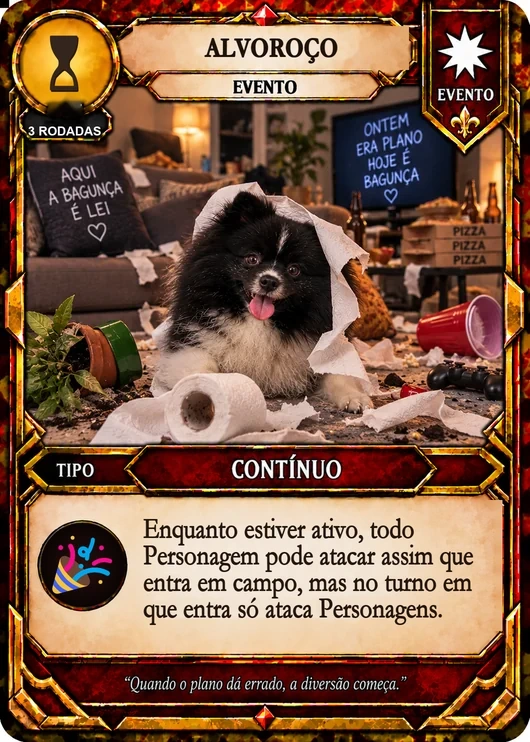
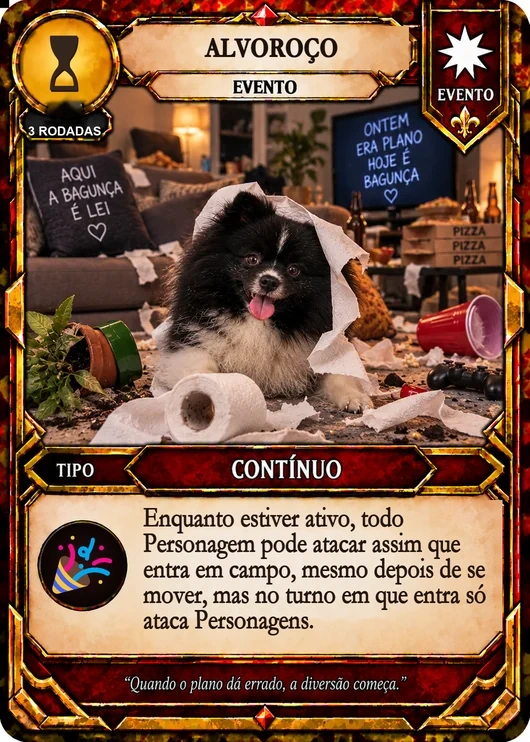
v97: Ligeiro move e ataca no mesmo turno, energia por efeito no 1o turno do 2o jogador

Changed region(s): [[0.2717, 0.6819, 0.9358, 0.8679]]

diff --git a/js/ui.js b/js/ui.js
@@ -1203,7 +1203,7 @@
   UI.rules = function () {
     const m = UI.modal(`<h3>Regras rápidas</h3><div class="rules-doc">
       <h4>Objetivo</h4><p>Reduza a vida do adversário de <b>25 para 0</b>. (Nas cartas, 1 ❤ = 5 pontos de vida: "recupere ❤1" cura 5.)</p>
-      <h4>Início</h4><p>Cada jogador começa com 25 de vida, 4 Personagens e 2 Suportes na mão (ninguém escolhe nem devolve cartas), todos baratos: custo até ⚡3. A partida começa sem Evento. Quem começa não compra no primeiro turno. No <b>primeiro turno de cada jogador só existe ⚡1</b> e nenhum efeito dá energia extra. Todo mundo começa com <b>pelo menos 2 Personagens de custo ⚡1</b> para jogar no primeiro turno. <b>As cartas vêm embaralhadas, mas só chegam cartas de até ⚡2 acima da sua energia:</b> cada carta comprada é a primeira do baralho cujo custo é no máximo a sua energia do turno + 2 (na mão inicial: até ⚡3). As caras só chegam quando você já está perto de poder jogá-las.</p>
+      <h4>Início</h4><p>Cada jogador começa com 25 de vida, 4 Personagens e 2 Suportes na mão (ninguém escolhe nem devolve cartas), todos baratos: custo até ⚡3. A partida começa sem Evento. Quem começa não compra no primeiro turno. No <b>primeiro turno de quem começa só existe ⚡1</b> e nenhum efeito dá energia extra (quem joga em 2º tem ⚡2 e pode ganhar energia por efeitos). Todo mundo começa com <b>pelo menos 2 Personagens de custo ⚡1</b> para jogar no primeiro turno. <b>As cartas vêm embaralhadas, mas só chegam cartas de até ⚡2 acima da sua energia:</b> cada carta comprada é a primeira do baralho cujo custo é no máximo a sua energia do turno + 2 (na mão inicial: até ⚡3). As caras só chegam quando você já está perto de poder jogá-las.</p>
       <h4>Energia ⚡</h4><p>No 1º turno você tem <b>⚡1</b>, no 2º <b>⚡2</b>, e assim por diante até <b>⚡10</b>. A energia <b>enche de novo todo turno</b>; o que sobrar se perde. Gastando energia você joga <b>quantas cartas quiser</b>. Energia extra de efeitos vale só no turno e nunca passa de 10. <b>Quem joga em 2º tem ⚡+1 nos 5 primeiros turnos</b> dele (⚡2, ⚡3, ⚡4, ⚡5 e ⚡6), para compensar a vantagem de começar.</p>
       <h4>Campo</h4><table><tr><th>Zona</th><th>Limite</th><th>Função</th></tr>
       <tr><td>⚔ Ataque</td><td>3</td><td>Podem atacar (a partir do turno seguinte ao que entraram, exceto Ligeiros).</td></tr>
@@ -1212,11 +1212,11 @@
       <tr><td>🛠 Suportes</td><td>2</td><td>Suportes Permanentes ficam aqui.</td></tr></table>
       <h4>Posição: espaços fixos</h4><p>Cada zona tem espaços fixos (esquerda, meio e direita). Ao jogar um Personagem, toque no <b>espaço</b> onde ele vai ficar; ele não muda de lugar sozinho. Vários efeitos usam a posição: o <b>vizinho</b> (espaço ao lado, na mesma zona) e a <b>frente</b> (um Defensor está "atrás" do atacante do mesmo espaço). <b>Mover</b> (⚡1) leva um Personagem a outro espaço livre, e <b>Trocar de lugar</b> (⚡2, uma vez por turno) troca dois Personagens seus de lugar. Quem foi movido ou trocado não ataca naquele turno.</p>
       <h4>Turno</h4><p><b>COMPRE</b> 1 Personagem (se tiver menos de 7 cartas) → faça o que quiser com sua energia, em qualquer ordem: <b>jogar Personagens e Suportes</b>, <b>comprar 1 Suporte</b> (⚡1, uma vez por turno), <b>mover</b> um Personagem (⚡1, uma vez por Personagem), usar <b>habilidades Ativáveis</b> (uma vez por turno cada), e <b>atacar</b> com cada Personagem pronto → <b>ENCERRE</b> o turno. A cada 2 turnos seus você também compra 1 Suporte automaticamente.</p>
-      <h4>Combate</h4><p>O atacante causa o próprio ⚔ de dano. Um Personagem atacado <b>contra-ataca</b> com o ⚔ dele, ao mesmo tempo. O dano <b>fica na carta para sempre</b> até que um efeito de <b>cura</b> o remova, e a carta cai quando o dano chega à sua 🛡. Cartas <b>Ligeiro</b> (a partir de ⚡2) podem atacar assim que entram, mas no turno em que entram só atacam Personagens (nos turnos seguintes atacam o herói normalmente). <b>Resistente N</b>: sofre N de dano a menos em cada ataque (mínimo 1). <b>Executor</b>: +2 de ataque contra Personagens que já têm dano. Alguns efeitos Ao Entrar causam dano direto a Personagens inimigos. Dá para combinar vários ataques para derrubar um alvo.</p>
+      <h4>Combate</h4><p>O atacante causa o próprio ⚔ de dano. Um Personagem atacado <b>contra-ataca</b> com o ⚔ dele, ao mesmo tempo. O dano <b>fica na carta para sempre</b> até que um efeito de <b>cura</b> o remova, e a carta cai quando o dano chega à sua 🛡. Cartas <b>Ligeiro</b> (a partir de ⚡2) podem atacar assim que entram e <b>podem se mover e atacar no mesmo turno</b> (cada Personagem só se move 1 vez por turno). No turno em que entram só atacam Personagens; nos turnos seguintes atacam o herói normalmente. <b>Resistente N</b>: sofre N de dano a menos em cada ataque (mínimo 1). <b>Executor</b>: +2 de ataque contra Personagens que já têm dano. Alguns efeitos Ao Entrar causam dano direto a Personagens inimigos. Dá para combinar vários ataques para derrubar um alvo.</p>
       <p>Contra um herói com Defensores, ataque os Defensores. <b>Desafio</b>: atacar um Personagem do Ataque inimigo. Sem Defensores, <b>todos os seus atacantes podem atacar o herói</b> (cada um tirando vida igual ao seu ⚔, sem contra-ataque) <b>ou os Personagens em 🤝 Apoio</b>.</p>
       <h4>Descartar e comprar</h4><p>Uma vez por turno, pague <b>⚡1</b> para descartar 1 carta da mão e comprar 1 do mesmo tipo (Personagem por Personagem, Suporte por Suporte). Serve para trocar uma carta que não dá para jogar.</p>
       <h4>Perks (Suportes Permanentes)</h4><p>Perks ocupam uma das 2 vagas 🛠, têm efeito passivo e <b>duram 3 turnos seus</b> (o ⏳ na carta mostra quantos faltam): <b>Torcida Organizada</b> (+1 de dano em todos os ataques), <b>Boleto Vencido</b> (+2 de dano no herói), <b>Fofoca do Churrasco</b> (compra 1 quando um Personagem seu cai), <b>Fiscal da Cerveja</b> (adversário perde ❤1 quando seu Personagem derrota outro), <b>Soneca Estratégica</b> (recupera ❤2 se ninguém atacou), <b>Bill</b> (compra extra), <b>Sofá</b> (Defensores sofrem 2 de dano a menos), <b>Cristal</b> (cada Personagem seu cura 2 de dano no início do seu turno) e <b>Jardim</b> (Personagens em Apoio ou Defesa curam 3 de dano no fim do seu turno).</p>
-      <h4>Dicas de energia e custo</h4><p>As cartas custam de <b>⚡1 a ⚡10</b> (o número no selo dourado). Jogar cartas baratas cedo e guardar as fortes para depois é normal. Mover custa ⚡1, só vale uma vez por Personagem por turno, e <b>quem se moveu não ataca</b> naquele turno. Personagem recém-jogado também só ataca no turno seguinte. O dano que uma carta sofreu aparece em vermelho na defesa dela.</p>
+      <h4>Dicas de energia e custo</h4><p>As cartas custam de <b>⚡1 a ⚡10</b> (o número no selo dourado). Jogar cartas baratas cedo e guardar as fortes para depois é normal. Mover custa ⚡1, só vale uma vez por Personagem por turno, e <b>quem se moveu não ataca</b> naquele turno (exceto Ligeiro). Personagem recém-jogado também só ataca no turno seguinte. O dano que uma carta sofreu aparece em vermelho na defesa dela.</p>
       <h4>Atordoado</h4><p>Eventos (como o Sono Depois do Almoço) podem Atordoar: não ataca, não usa Ativável, não se move. Continua defendendo. Recupera no fim do próximo turno do dono.</p>
       <h4>Limites</h4><p>Mão: 7 cartas · Energia: ⚡10 · Vida: 25 · Custo mínimo: ⚡1 · Descontos não se acumulam.</p>
       <h4>Eventos</h4><p>No máximo 1 Evento fica ativo e ele <b>troca sozinho a cada 3 rodadas</b> (o primeiro entra no fim da 3ª). Ninguém compra nem troca Eventos.</p>

diff --git a/js/cards.js b/js/cards.js
@@ -6,7 +6,7 @@
   // raridade: b = Base, e = Especial, m = Mágica, l = Lendária
   const P = [
     [1, 'Kevin', 'o Engenheiro Mecânico', 2, 4, 4, 'b', 'healBoard', 'Ao Entrar: cure todo o dano dos seus Personagens.'],
-    [2, 'Kevin', 'Craque da Bola', 3, 6, 3, 'e', 'ligeiro', 'Ligeiro: pode atacar assim que entra em campo, mas no turno em que entra só ataca Personagens.', 0, true],
+    [2, 'Kevin', 'Craque da Bola', 3, 6, 3, 'e', 'ligeiro', 'Ligeiro: pode atacar assim que entra, mesmo depois de se mover (1 movimento por turno). No turno em que entra só ataca Personagens.', 0, true],
     [3, 'Kevin', 'Mestre da Engenharia Mística', 5, 5, 7, 'm', 'kevinMestre', '🤝 Uma vez por seu turno, quando jogar um Suporte, compre 1 Personagem, respeitando o limite da mão.'],
     [4, 'Kevin', 'Galã Montador de Dragões', 8, 8, 6, 'l', 'ping3', 'Ao Entrar: cause 3 de dano a 1 Personagem inimigo.'],
     [5, 'Evilyn', 'a Impaciente', 1, 4, 2, 'b', 'auraRightAtk', 'O Personagem à sua direita, em ⚔, tem +1 de ataque.'],
@@ -14,7 +14,7 @@
     [7, 'Evilyn', 'Fada Antipet', 5, 7, 5, 'm', 'executor', 'Executor: +2 de ataque contra Personagens que já têm dano.'],
     [8, 'Evilyn', 'Rainha dos Baixinhos', 9, 7, 8, 'l', 'cureIfBehind', 'Ao Entrar: se tiver menos ❤ que o adversário, cure todo o dano dos seus Personagens.'],
     [9, 'Rogerinho', 'o Empresário', 2, 5, 4, 'b', 'zeroEnergy', 'Ao jogar Rogerinho, se ficar com ⚡0, ganhe ⚡1.'],
-    [10, 'Rogerinho', 'Taxista das Madrugadas', 4, 6, 4, 'e', 'ligeiro', 'Ligeiro: pode atacar assim que entra em campo, mas no turno em que entra só ataca Personagens.'],
+    [10, 'Rogerinho', 'Taxista das Madrugadas', 4, 6, 4, 'e', 'ligeiro', 'Ligeiro: pode atacar assim que entra, mesmo depois de se mover (1 movimento por turno). No turno em que entra só ataca Personagens.'],
     [11, 'Rogerinho', 'o Vereador', 5, 5, 6, 'm', 'apoioDefResist', '🤝 Apoio: seus Defensores têm Resistente 1 (sofrem 1 de dano a menos em cada ataque).'],
     [12, 'Rogerinho', 'Rei dos Galos', 7, 9, 5, 'l', 'cure5Each', 'Ao Entrar: cada Personagem seu cura 5 de dano.'],
     [13, 'Claudineia', 'a Mãe', 2, 3, 6, 'b', 'heal1', 'Ao Entrar: recupere ❤1.'],
@@ -34,7 +34,7 @@
     [27, 'Bruno', 'o Sofredor Vascaíno', 4, 4, 8, 'm', 'vanilla', 'Sem efeito especial.'],
     [28, 'Brunor', 'Mago da Série B', 9, 7, 7, 'l', 'pingAtk2', 'Ao Entrar: cause 2 de dano a cada Personagem inimigo em ⚔.'],
     [29, 'Helso', 'o Tranquilo', 1, 3, 4, 'b', 'helsoTranquilo', 'Ao Entrar em 🛡: se for seu único Defensor, ganhe ⚡1.'],
-    [30, 'Helso', 'Pé Descalibrado', 2, 6, 2, 'e', 'ligeiro', 'Ligeiro: pode atacar assim que entra em campo, mas no turno em que entra só ataca Personagens.'],
+    [30, 'Helso', 'Pé Descalibrado', 2, 6, 2, 'e', 'ligeiro', 'Ligeiro: pode atacar assim que entra, mesmo depois de se mover (1 movimento por turno). No turno em que entra só ataca Personagens.'],
     [31, 'Helso', 'Lançador Oficial da NASA', 6, 8, 4, 'm', 'executor', 'Executor: +2 de ataque contra Personagens que já têm dano.'],
     [32, 'Helso', 'Mestre do Coco', 9, 7, 8, 'l', 'helsoCoco', 'Ao Entrar: recupere ❤1 e cure todo o dano dos seus Personagens.'],
     [33, 'Jones', 'o Galanteador', 2, 5, 4, 'b', 'nextSupRed', 'Ao Entrar: o próximo Suporte que você jogar neste turno custa ⚡1 a menos.'],
@@ -128,7 +128,7 @@
     [13, 'Fila do Churrasco', 'imm', 'filaChurrasco', 'Ao revelar: o jogador com menos Personagens em campo compra 1 Personagem, respeitando o limite da mão. Em caso de empate, ninguém compra.'],
     [14, 'Discussão Generalizada', 'cont', 'discussao', 'Enquanto estiver ativo, nenhum jogador pode recuperar ❤.'],
     [15, 'Noite Tranquila', 'cont', 'noite', 'No início do turno de cada jogador, cada Personagem dele cura 2 de dano.'],
-    [16, 'Alvoroço', 'cont', 'alvoroco', 'Enquanto estiver ativo, todo Personagem pode atacar assim que entra em campo, mas no turno em que entra só ataca Personagens.'],
+    [16, 'Alvoroço', 'cont', 'alvoroco', 'Enquanto estiver ativo, todo Personagem pode atacar assim que entra em campo, mesmo depois de se mover, mas no turno em que entra só ataca Personagens.'],
     [17, 'Vô Deu Bronca!', 'cont', 'bronca', 'Ao revelar: cada jogador escolhe 1 Personagem adversário em ⚔ e move-o para 🛡, se houver espaço.'],
   ];
 
@@ -143,7 +143,7 @@
   P.forEach(([n, name, title, cost, atk, def, rar, fx, text, ecost, fla]) => {
     CARDS['p' + pad(n)] = {
       id: 'p' + pad(n), type: 'char', name, title, cost, atk, def, rarity: rar, rarityName: RAR[rar],
-      fx, text, ecost: ecost || 0, flamengo: !!fla, updated: UPD.has(n), img: abs('assets/cards/personagens/' + pad(n) + '.webp?v=95'),
+      fx, text, ecost: ecost || 0, flamengo: !!fla, updated: UPD.has(n), img: abs('assets/cards/personagens/' + pad(n) + '.webp?v=97'),
       activatable: /^act/.test(fx),
     };
   });
@@ -153,13 +153,13 @@
     CARDS['s' + pad(n)] = {
       dur: DUR[fx] || 0,
       id: 's' + pad(n), type: 'sup', name, title: kind === 'imm' ? 'Imediato' : kind === 'perm' ? (DUR[fx] ? 'Perk' : 'Permanente') : 'Permanente - uso único',
-      cost, kind, fx, text, img: abs('assets/cards/suportes/' + pad(n) + '.webp?v=95'),
+      cost, kind, fx, text, img: abs('assets/cards/suportes/' + pad(n) + '.webp?v=97'),
     };
   });
   E.forEach(([n, name, kind, fx, text]) => {
     CARDS['e' + pad(n)] = {
       id: 'e' + pad(n), type: 'ev', name, title: kind === 'imm' ? 'Evento Imediato' : 'Evento Contínuo',
-      kind, fx, text, img: abs('assets/cards/eventos/' + pad(n) + '.webp?v=95'),
+      kind, fx, text, img: abs('assets/cards/eventos/' + pad(n) + '.webp?v=97'),
     };
   });
 

diff --git a/js/tutorial.js b/js/tutorial.js
@@ -31,7 +31,7 @@
     },
     {
       t: 'Preparação',
-      body: `<ul><li>Cada jogador começa com <b>25 de vida</b> (1 ❤ nas cartas = 5 pontos). No <b>primeiro turno de cada um só existe ⚡1</b> e nenhum efeito dá energia extra.</li>
+      body: `<ul><li>Cada jogador começa com <b>25 de vida</b> (1 ❤ nas cartas = 5 pontos). No <b>primeiro turno de quem começa só existe ⚡1</b> e nenhum efeito dá energia extra (quem joga em 2º tem ⚡2).</li>
         <li>Compre <b>4 Personagens</b> e <b>2 Suportes</b> — sem escolher nem devolver, todos <b>baratos (até ⚡3)</b>. Sua mão sempre tem <b>pelo menos 1 Personagem de custo ⚡1</b>.</li>
         <li><b>Só recebemos cartas que dá para jogar</b>: as compras seguem a sua energia (no turno 5, só vêm cartas de custo até ⚡5, quando houver). Cartas fortes chegam conforme a energia sobe.</li>
         <li>A partida começa <b>sem Evento</b>. O sorteio decide quem começa (as duas posições são equilibradas).</li>
@@ -69,14 +69,14 @@
         <li><b>Mover</b> um Personagem de Apoio para o Ataque (⚡1) → sobra ⚡0.</li>
         <li>Atacar com quem já estava pronto no Ataque e <b>encerrar</b>.</li></ol>
         <p>Cartas fortes custam mais (até <b>⚡10</b>): guardar a mão para o fim do jogo é normal, mas <b>energia não usada nunca acumula</b>.</p>
-        <p>💡 Mover custa ⚡1, só 1 vez por Personagem por turno, e <b>quem se moveu não ataca</b> naquele turno.</p>`,
+        <p>💡 Mover custa ⚡1, só 1 vez por Personagem por turno, e <b>quem se moveu não ataca</b> naquele turno (exceto Ligeiro).</p>`,
       vis: () => `<div class="flow"><div class="step"><span>⚡4</span><b>Início</b>energia cheia</div><span class="arrow">➜</span><div class="step"><span>⚡2</span><b>Personagem</b>custo 2</div><span class="arrow">➜</span><div class="step"><span>⚡1</span><b>Suporte</b>custo 1</div><span class="arrow">➜</span><div class="step"><span>⚡0</span><b>Mover</b>custo 1</div></div>`,
     },
     {
       t: 'Combate: ataque e contra-ataque',
       body: `<p>O atacante causa o seu <b>⚔ Ataque</b> de dano. O alvo <b>contra-ataca</b> com o ⚔ dele, ao mesmo tempo.</p>
-        <p>O dano <b>fica na carta</b> até ser curado por um efeito (o 💔 mostra a vida atual). Cartas <b>Ligeiro</b> atacam assim que entram (no turno em que entram, só contra Personagens). <b>Defensores sofrem 1 de dano a menos</b> em cada ataque. A carta <b>cai</b> quando o dano chega à sua <b>🛡 Defesa</b>.</p>
-        <p>Um Personagem <b>recém-jogado não ataca</b> no mesmo turno (💤), e quem foi movido também não. Dá para <b>juntar ataques</b> para derrubar um alvo forte!</p>`,
+        <p>O dano <b>fica na carta</b> até ser curado por um efeito (o 💔 mostra a vida atual). Cartas <b>Ligeiro</b> atacam assim que entram, <b>mesmo depois de se mover</b> (1 movimento por turno); no turno em que entram, só contra Personagens. <b>Defensores sofrem 1 de dano a menos</b> em cada ataque. A carta <b>cai</b> quando o dano chega à sua <b>🛡 Defesa</b>.</p>
+        <p>Um Personagem <b>recém-jogado não ataca</b> no mesmo turno (💤), e quem foi movido também não (exceto Ligeiro). Dá para <b>juntar ataques</b> para derrubar um alvo forte!</p>`,
       vis: () => `<div class="duel">
         <div class="duel-row"><span class="n" style="color:#9dffc6">⚔7 → 🛡5</span><span class="r">O alvo tem 5 de vida: <b>cai</b>.</span></div>
         <div class="duel-row"><span class="n" style="color:#ffd58a">⚔4 → 🛡9</span><span class="r">Fica com 5 de vida; <b>um segundo ataque</b> termina o serviço.</span></div>

diff --git a/js/engine.js b/js/engine.js
@@ -113,7 +113,7 @@
   // ---------------------------------------------------------------- recursos
   function gainE(s, p, n) {
     const pl = s.players[p];
-    if (pl.turns <= 1) return 0; // no 1º turno de cada jogador só existe ⚡1: nenhum efeito dá energia extra
+    if (pl.turns <= 1 && p === s.first) return 0; // no 1º turno de quem começa só existe ⚡1: nenhum efeito dá energia extra (quem joga em 2º já tem ⚡2)
     const b = pl.energy;
     pl.energy = Math.min(G.ENERGY_MAX, pl.energy + n);
     const g = pl.energy - b;
@@ -1107,7 +1107,7 @@
   function canAttack(s, p, c) {
     const pl = s.players[p];
     if (s.turn < G.RULES.noAttackUntil) return false;
-    return pl.atk.includes(c) && !c.stunned && c.attackedT !== s.turn && c.movedT !== s.turn && (c.enteredT !== s.turn || c.canAtkT === s.turn || D(c).fx === 'ligeiro' || c.ligT === s.turn || evKey(s) === 'alvoroco');
+    return pl.atk.includes(c) && !c.stunned && c.attackedT !== s.turn && (c.movedT !== s.turn || c.ligT === s.turn || (c.enteredT === s.turn && (D(c).fx === 'ligeiro' || evKey(s) === 'alvoroco'))) && (c.enteredT !== s.turn || c.canAtkT === s.turn || D(c).fx === 'ligeiro' || c.ligT === s.turn || evKey(s) === 'alvoroco');
   }
   function attackTargets(s, p) {
     const o = s.players[opp(p)];
@@ -1302,7 +1302,7 @@
         const c = pl.hand.find((x) => x.uid === a.uid);
         if (!c || D(c).type !== 'sup') return err('Carta inválida.');
         if (pl.energy < supCost(s, p, c)) return err('Energia insuficiente.');
-        if (D(c).fx === 'cafezinho' && pl.turns <= 1) return err('No primeiro turno ninguém ganha energia extra: o Cafezinho não teria efeito.');
+        if (D(c).fx === 'cafezinho' && pl.turns <= 1 && p === s.first) return err('No primeiro turno de quem começa ninguém ganha energia extra: o Cafezinho não teria efeito.');
         playSup(s, p, c.uid);
         break;
       }
@@ -1419,7 +1419,7 @@
         if (pl.noReplay && pl.noReplay.uid === c.uid && pl.noReplay.t === s.turn) return;
         if (pl.energy < charCost(s, p, c)) return;
         ['atk', 'def', 'apoio'].forEach((z) => { if (space(s, p, z)) { if (all) freeSlots(s, p, z).forEach((k) => out.push({ t: 'playChar', uid: c.uid, zone: z, slot: k })); else out.push({ t: 'playChar', uid: c.uid, zone: z }); } });
-      } else if (pl.energy >= supCost(s, p, c) && !(D(c).fx === 'cafezinho' && pl.turns <= 1)) out.push({ t: 'playSup', uid: c.uid });
+      } else if (pl.energy >= supCost(s, p, c) && !(D(c).fx === 'cafezinho' && pl.turns <= 1 && p === s.first)) out.push({ t: 'playSup', uid: c.uid });
     });
     if (pl.hand.length < 7 && pl.buyT !== s.turn && pl.energy >= G.RULES.buyCost && (deckN(s, 'sup') || (s.players.some((x) => x.discard.some((c) => D(c).type === 'sup'))))) out.push({ t: 'buySup' });
     if (pl.cycleT !== s.turn && pl.energy >= G.RULES.cycleCost) pl.hand.forEach((c) => { if (D(c).type === 'char' ? deckN(s, 'char') : (deckN(s, 'sup') || (s.players.some((x) => x.discard.some((y) => D(y).type === 'sup'))))) out.push({ t: 'cycle', uid: c.uid }); });

diff --git a/index.html b/index.html
@@ -10,7 +10,7 @@
   <link rel="preconnect" href="https://fonts.googleapis.com">
   <link rel="preconnect" href="https://fonts.gstatic.com" crossorigin>
   <link href="https://fonts.googleapis.com/css2?family=Cinzel+Decorative:wght@700;900&family=Cinzel:wght@600;700;800&family=Nunito:wght@400;600;700;800&display=swap" rel="stylesheet">
-  <link rel="stylesheet" href="css/style.css?v=95">
+  <link rel="stylesheet" href="css/style.css?v=97">
 </head>
 <body>
   <canvas id="sparks"></canvas>
@@ -167,17 +167,17 @@
   <div id="preview" class="preview"></div>
 
   <script src="js/vendor/peerjs.min.js"></script>
-  <script src="js/cards.js?v=95"></script>
-  <script src="js/engine.js?v=95"></script>
-  <script src="js/ai.js?v=95"></script>
-  <script src="js/audioout.js?v=95"></script>
-  <script src="js/sfx.js?v=95"></script>
-  <script src="js/music.js?v=95"></script>
-  <script src="js/memes.js?v=95"></script>
-  <script src="js/voice.js?v=95"></script>
-  <script src="js/ui.js?v=95"></script>
-  <script src="js/net.js?v=95"></script>
-  <script src="js/tutorial.js?v=95"></script>
-  <script src="js/main.js?v=95"></script>
+  <script src="js/cards.js?v=97"></script>
+  <script src="js/engine.js?v=97"></script>
+  <script src="js/ai.js?v=97"></script>
+  <script src="js/audioout.js?v=97"></script>
+  <script src="js/sfx.js?v=97"></script>
+  <script src="js/music.js?v=97"></script>
+  <script src="js/memes.js?v=97"></script>
+  <script src="js/voice.js?v=97"></script>
+  <script src="js/ui.js?v=97"></script>
+  <script src="js/net.js?v=97"></script>
+  <script src="js/tutorial.js?v=97"></script>
+  <script src="js/main.js?v=97"></script>
 </body>
 </html>
